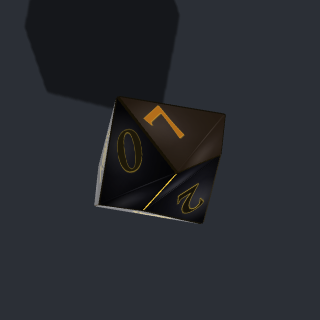
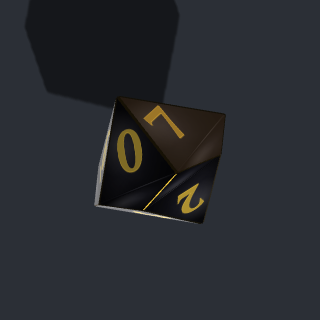
fix: gilded inlay numerals, idle animation loop, pixel ratio clamp and resize, d100 tens and 2x render checks
Independent verification of the pixel-ratio change (31-agent review, all
findings reproduced by two refuters each) surfaced four Important issues:

- Obsidian & Gold inlay numerals were pure metal (metalness 1) and so had no
  diffuse response: gold only where a face caught the key light, 1.4-2.4:1
  dim outlines everywhere else. Inlay numerals are now gilded paint
  (roughness 0.4, metalness 0.55) and read gold on every face.
- The animation loop never stopped once started, so a full-screen overlay
  paid the PCFSoft floor pass every frame for the life of the page, now 4x
  at a 2x ratio. _shouldIdle() stops it when every die rests, batches are
  resolved and no effect or fade runs; roll, addDice, playEffect, reset and
  resize wake it. Verified in Chromium: 0 frames/s idle, empty canvas after a
  fade.
- The pixel ratio is clamped so the drawing buffer stays within the GPU's
  maximum texture size (a canvas sized to a large map image would exceed it
  at 2x) and is re-resolved on resize for display or zoom changes.
  prepareDiceSets() also sets texture anisotropy when given a renderer.
  README documents the pixelRatio option.
- The render harness never drew the d100 tens half or exercised the 2x
  path: it now baselines classic-d100-tens from the pre-branch source,
  renders the tens half for every set, and asserts a 2x page gets a 640x640
  buffer for a 320px canvas.

Changed region(s): [[0.3438, 0.4062, 0.4688, 0.5312], [0.5625, 0.5625, 0.6562, 0.6875]]

diff --git a/src/DiceRoller.js b/src/DiceRoller.js
@@ -7,7 +7,7 @@ import { glow, scalePulse, haloRing, runEffectsRules } from './effects/index.js'
 import { resolveSet, CLASSIC } from './sets/index.js';
 import { prepareDiceSets } from './sets/prepare.js';
 import { setTextureAnisotropy } from './sets/texture-cache.js';
-import { resolvePixelRatio } from './pixel-ratio.js';
+import { resolvePixelRatio, clampPixelRatioToBuffer } from './pixel-ratio.js';
 
 const DIE_TYPES = ['d4', 'd6', 'd8', 'd10', 'd12', 'd20', 'd100'];
 
@@ -48,7 +48,11 @@ export class DiceRoller {
         this.height = options.height || this.container.clientHeight;
         this.throwSpeed = options.throwSpeed || 15;
         this.throwSpin = options.throwSpin || 20;
+        this._pixelRatioOption = options.pixelRatio;
         this.pixelRatio = resolvePixelRatio(options.pixelRatio, typeof window !== 'undefined' ? window.devicePixelRatio : 1);
+        // Rendering stops while nothing on the table can change (see _shouldIdle); reset()'s fade
+        // holds it open because it empties this.dice before the dice have faded.
+        this._animationHolds = 0;
         this.onRollComplete = options.onRollComplete || null;
         // Fires once per batch as it settles, with the same {total, variances, results}
         // object plus a reference to the batch dice. Lets callers schedule per-die effects
@@ -111,6 +115,7 @@ export class DiceRoller {
         this.camera.updateProjectionMatrix();
 
         this.renderer = new THREE.WebGLRenderer({ antialias: true, alpha: true });
+        this.pixelRatio = clampPixelRatioToBuffer(this.pixelRatio, this.width, this.height, this.renderer.capabilities.maxTextureSize);
         this.renderer.setPixelRatio(this.pixelRatio);
         this.renderer.setSize(this.width, this.height);
         // Set textures are filtered anisotropically so numerals stay sharp on tilted faces.
@@ -261,8 +266,14 @@ export class DiceRoller {
             this.directionalLight.shadow.camera.updateProjectionMatrix();
         }
 
+        // The display may have changed density (window moved between screens, browser zoom).
+        const device = typeof window !== 'undefined' ? window.devicePixelRatio : 1;
+        this.pixelRatio = clampPixelRatioToBuffer(resolvePixelRatio(this._pixelRatioOption, device), this.width, this.height, this.renderer.capabilities.maxTextureSize);
+        this.renderer.setPixelRatio(this.pixelRatio);
         this.renderer.setSize(this.width, this.height);
         this._updatePhysicsWalls(frustumSize, aspect, topBound, bottomBound);
+        // An idle table keeps its last frame; redraw it at the new size.
+        if (!this.isAnimating) this.renderer.render(this.scene, this.camera);
     }
 
     /**
@@ -365,6 +376,7 @@ export class DiceRoller {
         const effect = spec.create(ctx);
         if (effect && typeof effect.update === 'function') {
             this.effects.push(effect);
+            this._ensureAnimating();
             return effect;
         }
         return null;
@@ -736,9 +748,14 @@ export class DiceRoller {
 
             if (diceToFade.length === 0) {
                 if (this.floor) this.floor.material.opacity = 0;
+                if (!this.isAnimating && this.renderer) this.renderer.render(this.scene, this.camera);
                 resolve();
                 return;
             }
+
+            // Keep the loop rendering while the dice fade; it idles again once they are gone.
+            this._animationHolds++;
+            this._ensureAnimating();
 
             const fadeDuration = 500;
             const startTime = performance.now();
@@ -771,6 +788,7 @@ export class DiceRoller {
                         this.scene.remove(d.mesh);
                         this.world.removeBody(d.body);
                     });
+                    this._animationHolds--;
                     resolve();
                 }
             };
@@ -825,6 +843,20 @@ export class DiceRoller {
         return d.targetNumber;
     }
 
+    /**
+     * True when nothing on the table can change: every die at rest, every batch resolved,
+     * no effect running, no roll waiting for assets and no fade in progress. The loop stops
+     * then; the canvas keeps its last frame, and roll(), addDice(), playEffect() and reset()
+     * start it again. Before this the loop ran for the life of the page.
+     * @private
+     */
+    _shouldIdle() {
+        if (this._pendingSetRolls > 0 || this._animationHolds > 0) return false;
+        if (this.effects.length > 0) return false;
+        if (this.diceBatches.some((b) => !b.resolved && b.dice.length > 0)) return false;
+        return this.dice.every((d) => this._isBodySettled(d.body));
+    }
+
     /** @private */
     _ensureAnimating() {
         if (this._destroyed) return;
@@ -843,8 +875,6 @@ export class DiceRoller {
      */
     _animate(time) {
         if (!this.isAnimating) return;
-
-        this.animationFrameId = requestAnimationFrame(this._animate.bind(this));
 
         if (this.lastTime !== undefined) {
             const dt = (time - this.lastTime) / 1000;
@@ -883,6 +913,13 @@ export class DiceRoller {
         }
 
         this.renderer.render(this.scene, this.camera);
+
+        if (this._shouldIdle()) {
+            this.isAnimating = false;
+            this.animationFrameId = null;
+            return;
+        }
+        this.animationFrameId = requestAnimationFrame(this._animate.bind(this));
     }
 
     /**

diff --git a/test/unit/roller-idle.test.js b/test/unit/roller-idle.test.js
@@ -1,0 +1,35 @@
+import { describe, it, expect, vi } from 'vitest';
+import { DiceRoller } from '../../src/DiceRoller.js';
+
+const proto = DiceRoller.prototype;
+const rest = { velocity: { lengthSquared: () => 0 }, angularVelocity: { lengthSquared: () => 0 } };
+const moving = { velocity: { lengthSquared: () => 4 }, angularVelocity: { lengthSquared: () => 0 } };
+
+function fake(over = {}) {
+    return { dice: [], diceBatches: [], effects: [], _pendingSetRolls: 0, _isBodySettled: proto._isBodySettled, _shouldIdle: proto._shouldIdle, ...over };
+}
+
+describe('the animation loop idles when nothing moves (a full-screen overlay must not render forever)', () => {
+    it('idles with an empty table', () => {
+        expect(fake()._shouldIdle()).toBe(true);
+    });
+
+    it('idles once every die rests, every batch is resolved and no effect runs', () => {
+        const r = fake({ dice: [{ body: rest }, { body: rest }], diceBatches: [{ resolved: true, dice: [1] }] });
+        expect(r._shouldIdle()).toBe(true);
+    });
+
+    it('keeps running while a die moves, a batch is unresolved, an effect runs, or a set roll waits', () => {
+        expect(fake({ dice: [{ body: moving }] })._shouldIdle()).toBe(false);
+        expect(fake({ dice: [{ body: rest }], diceBatches: [{ resolved: false, dice: [1] }] })._shouldIdle()).toBe(false);
+        expect(fake({ effects: [{ update() {} }] })._shouldIdle()).toBe(false);
+        expect(fake({ _pendingSetRolls: 1 })._shouldIdle()).toBe(false);
+    });
+
+    it('playEffect wakes the loop so an effect fired on an idle table animates', () => {
+        const r = { effects: [], _ensureAnimating: vi.fn(), playEffect: proto.playEffect };
+        const spec = { create: () => ({ update: () => true }) };
+        expect(r.playEffect(spec, null)).not.toBeNull();
+        expect(r._ensureAnimating).toHaveBeenCalledTimes(1);
+    });
+});

diff --git a/test/unit/pixel-ratio.test.js b/test/unit/pixel-ratio.test.js
@@ -1,5 +1,5 @@
 import { describe, it, expect } from 'vitest';
-import { resolvePixelRatio } from '../../src/pixel-ratio.js';
+import { resolvePixelRatio, clampPixelRatioToBuffer } from '../../src/pixel-ratio.js';
 
 describe('resolvePixelRatio', () => {
     it('defaults to the device ratio, capped at 2 (a Retina canvas drawn at 1x reads as pixelated)', () => {
@@ -7,6 +7,15 @@ describe('resolvePixelRatio', () => {
         expect(resolvePixelRatio(undefined, 1.5)).toBe(1.5);
         expect(resolvePixelRatio(undefined, 3)).toBe(2);
         expect(resolvePixelRatio(undefined, undefined)).toBe(1);
+    });
+
+    it('clampPixelRatioToBuffer keeps the drawing buffer within the GPU maximum and never drops below 1', () => {
+        expect(clampPixelRatioToBuffer(2, 1000, 700, 4096)).toBe(2);
+        expect(clampPixelRatioToBuffer(2, 2560, 1440, 4096)).toBeCloseTo(1.6, 9);     // 4096 / 2560
+        expect(clampPixelRatioToBuffer(2, 4096, 2304, 4096)).toBe(1);                 // a map-sized roller on a 4096 GPU
+        expect(clampPixelRatioToBuffer(2, 5000, 100, 4096)).toBe(1);                  // already too wide at 1x: leave it
+        expect(clampPixelRatioToBuffer(1.5, 400, 400, undefined)).toBe(1.5);          // no limit known
+        expect(clampPixelRatioToBuffer(1.5, 400, 400, 0)).toBe(1.5);
     });
 
     it('honours an explicit option, including opting out with 1', () => {

diff --git a/test/render/fixture.js b/test/render/fixture.js
@@ -30,13 +30,14 @@ function poseFor(type) {
     return tilt.multiply(q);
 }
 
-window.__renderDie = async (type, setId) => {
+// `half` is 'tens' to render the second die of a d100 pair (isFirst = false), else the units.
+window.__renderDie = async (type, setId, half = 'units') => {
     if (setId !== 'classic' && typeof roller.preloadSets === 'function') {
         await roller.preloadSets([setId]);
     }
     if (current) roller.scene.remove(current.mesh);
     const options = setId === 'classic' ? {} : { set: setId };
-    const die = createDie(type, true, true, undefined, undefined, null, roller.scene, null,
+    const die = createDie(type, true, half !== 'tens', undefined, undefined, null, roller.scene, null,
         null, null, null, false, null, null, options);
     die.mesh.quaternion.copy(poseFor(type));
     die.mesh.position.set(0, 1.2, 0);
@@ -52,7 +53,7 @@ window.__renderDie = async (type, setId) => {
     ctx.fillStyle = '#2b2f36';
     ctx.fillRect(0, 0, px, px);
     ctx.drawImage(roller.renderer.domElement, 0, 0, px, px);
-    window.__renders[`${setId}-${type}`] = ctx.getImageData(0, 0, px, px).data;
+    window.__renders[`${setId}-${type}${half === 'tens' ? '-tens' : ''}`] = ctx.getImageData(0, 0, px, px).data;
     return out.toDataURL('image/png');
 };
 

diff --git a/src/sets/face-painter.js b/src/sets/face-painter.js
@@ -37,6 +37,14 @@ export function shade(hex, amount) {
     return rgbToHex(rgb.map((c) => (amount >= 0 ? c + (255 - c) * amount : c * (1 + amount))));
 }
 
+/**
+ * Inlay numerals are gilded paint rather than mirror metal: a pure metal has no diffuse
+ * response, so gold numerals went dark on every face not catching the key light. Partly
+ * metallic and rougher, they keep a gold colour under ambient light and still glint.
+ */
+export const INLAY_ROUGHNESS = 0.4;
+export const INLAY_METALNESS = 0.55;
+
 /** Packed metal-roughness colour: three reads roughness from G and metalness from B. */
 export function mrColor(roughness, metalness) {
     return `rgb(0, ${Math.round(roughness * 255)}, ${Math.round(metalness * 255)})`;
@@ -191,8 +199,7 @@ export function paintNumeral(ctx, text, { x, y, sizePx, set, mode }) {
         drawUnderline(ctx, text, x + dx, y + dy, sizePx, fill);
     };
     if (mode === 'mr') {
-        const metal = METALS[set.numeral.metal];
-        glyph(mrColor(metal.roughness, metal.metalness));
+        glyph(mrColor(INLAY_ROUGHNESS, INLAY_METALNESS));
     } else if (mode === 'emissive') {
         glyph(set.numeral.glow.color);
     } else if (style === 'engraved') {

diff --git a/test/unit/face-painter.test.js b/test/unit/face-painter.test.js
@@ -85,10 +85,10 @@ describe('face painter', () => {
         expect(callsNamed(canvas, 'putImageData')).toHaveLength(0);
     });
 
-    it('MR map paints inlay numerals in the inlay metal', () => {
+    it('MR map paints inlay numerals as gilded paint (partly metallic, rougher) so they read gold on unlit faces too', () => {
         const { canvas } = paintFace({ set: INLAY, type: 'd12', face: { text: '12' }, mode: 'mr' });
         expect(fillTexts(canvas)).toEqual(['12']);
-        expect(stylesSet(canvas).at(-1)).toBe('rgb(0, 71, 255)');
+        expect(stylesSet(canvas).at(-1)).toBe('rgb(0, 102, 140)');       // roughness 0.4, metalness 0.55: keeps a diffuse gold response
     });
 
     it('emissive map is black with glowing numerals only for the glow style', () => {

diff --git a/src/pixel-ratio.js b/src/pixel-ratio.js
@@ -9,3 +9,15 @@ export function resolvePixelRatio(option, deviceRatio) {
     const device = typeof deviceRatio === 'number' && Number.isFinite(deviceRatio) && deviceRatio > 0 ? deviceRatio : 1;
     return Math.min(device, 2);
 }
+
+/**
+ * Keep the drawing buffer (css size x ratio) within the GPU's maximum texture size, which a
+ * canvas sized to a large map image can exceed at 2x. Never drops below 1: a canvas that is
+ * already too large at 1x is the caller's situation, not ours to shrink.
+ */
+export function clampPixelRatioToBuffer(ratio, width, height, maxSize) {
+    if (!(maxSize > 0)) return ratio;
+    const largest = Math.max(width || 0, height || 0);
+    if (!(largest > 0)) return ratio;
+    return Math.max(1, Math.min(ratio, maxSize / largest));
+}

diff --git a/src/sets/prepare.js b/src/sets/prepare.js
@@ -1,5 +1,6 @@
 import { ensureNumeralFont } from './fonts/numerals.js';
 import { installEnvironment } from './environment.js';
+import { setTextureAnisotropy } from './texture-cache.js';
 
 /**
  * Load the numeral font and, when a renderer and scene are given, install the reflection
@@ -10,6 +11,7 @@ import { installEnvironment } from './environment.js';
  */
 export async function prepareDiceSets({ renderer, scene } = {}) {
     const fontLoaded = await ensureNumeralFont();
+    if (renderer && renderer.capabilities) setTextureAnisotropy(renderer.capabilities.getMaxAnisotropy());
     if (renderer && scene) installEnvironment(renderer, scene);
     return fontLoaded;
 }

diff --git a/readme.md b/readme.md
@@ -68,6 +68,7 @@ new DiceRoller({
     sounds,              // string[] of audio URLs (collision sfx)
     soundVolume,         // number 0..1, default 1
     effects,             // rule list — see "Settled Effects"
+    pixelRatio,          // number, default min(devicePixelRatio, 2); pass 1 to opt out
 })
 ```
 
